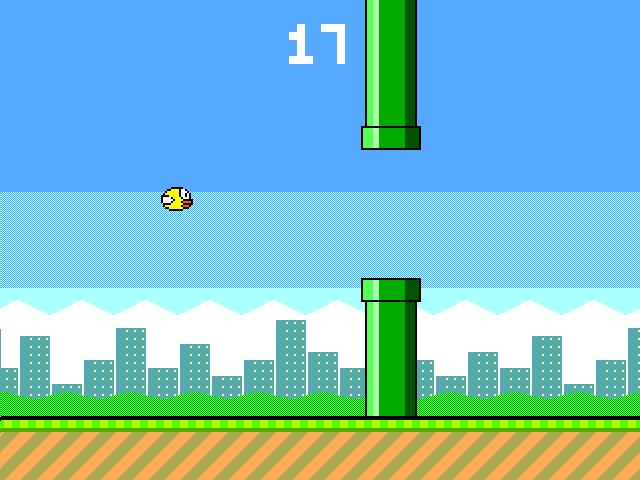
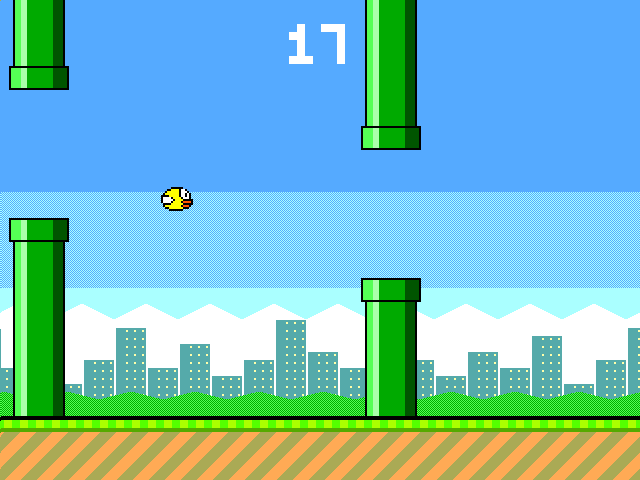
docs: 1-tile version, new controls and screenshot

Changed region(s): [[0.0, 0.4375, 0.5625, 0.875], [0.0, 0.0, 0.125, 0.1875], [0.6562, 0.625, 1.0, 0.6875]]

diff --git a/docs/info.md b/docs/info.md
@@ -22,9 +22,13 @@ The game is built from a few hardware blocks:
   effect), the pipes with caps and shading, the ground with scrolling stripes, the 16x12 bird
   sprite (with an animated wing), and the text ("LUIS" title, score and best score) using a
   3x5 pixel font.
-- **Sound**: 1-bit square waves and noise for flapping, scoring and crashing, on `uio[7]`.
+- **Sound**: 1-bit square waves and noise for flapping, scoring and crashing, on `uio[7]`. The
+  scanline counter doubles as the tone generator, so the sound costs almost no extra logic.
 - **Autopilot**: when `ui[1]` is high, the chip plays by itself, flapping when the bird falls
   near the bottom of the next gap. Great for demos.
+
+To fit in a single tile, the two pipes share one position register (they are always 352 px
+apart) and one renderer: at most one pipe can be under the beam at any time.
 
 ![Gameplay](gameplay.png)
 
@@ -34,19 +38,18 @@ Connect a TinyVGA Pmod to the outputs and a VGA monitor, and set the clock to 25
 (25.2 MHz also works).
 
 - Title screen: the big "LUIS" title and the best score.
-- Flap: press A, B, X, Y, Up or Start on the Gamepad Pmod, or toggle `ui[0]` (every change of
-  `ui[0]` is one flap, so a DIP switch or a button both work).
+- Flap: flip the `ui[0]` switch (every change of `ui[0]` is one flap), or press a push button
+  connected to `ui[2]` (one flap per press).
 - Fly through the gaps between the pipes. Each pipe you pass is one point.
 - When you crash, the screen flashes and the bird falls. Press again to go back to the title.
 - `ui[1]` = 1: autopilot (demo mode), the game plays by itself forever.
-- `ui[7]` = 1: easy mode (bigger gaps, slower pipes).
 
 You can also play it in the browser with the Tiny Tapeout VGA Playground: open
-`https://vga-playground.com/?repo=<this repository URL>`, enable the gamepad and press `a` to flap,
-or press `0` on the keyboard.
+`https://vga-playground.com/?repo=<this repository URL>` and press `0` on the keyboard to flap
+(`1` turns the autopilot on and off).
 
 ## External hardware
 
 - [TinyVGA Pmod](https://github.com/mole99/tiny-vga) on the output pins, and a VGA monitor.
-- Optional: [Gamepad Pmod](https://github.com/psychogenic/gamepad-pmod) on the input pins.
+- Optional: a push button on `ui[2]`.
 - Optional: an audio Pmod or a small speaker/amplifier on `uio[7]` for sound.
